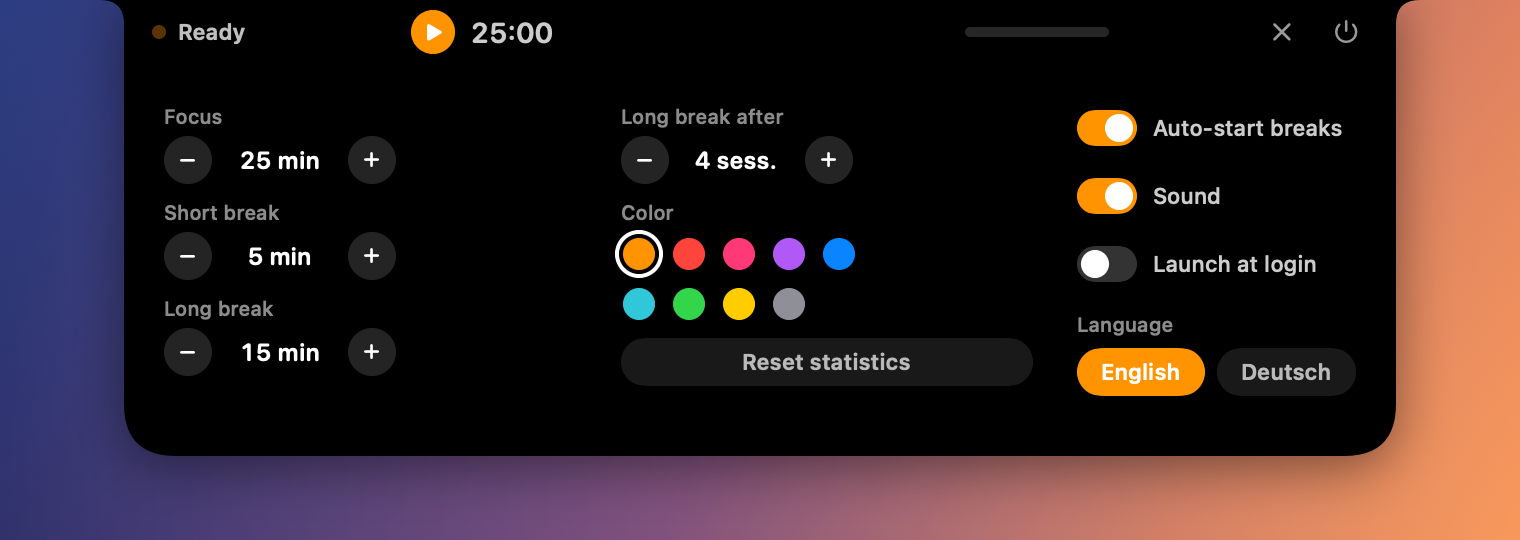
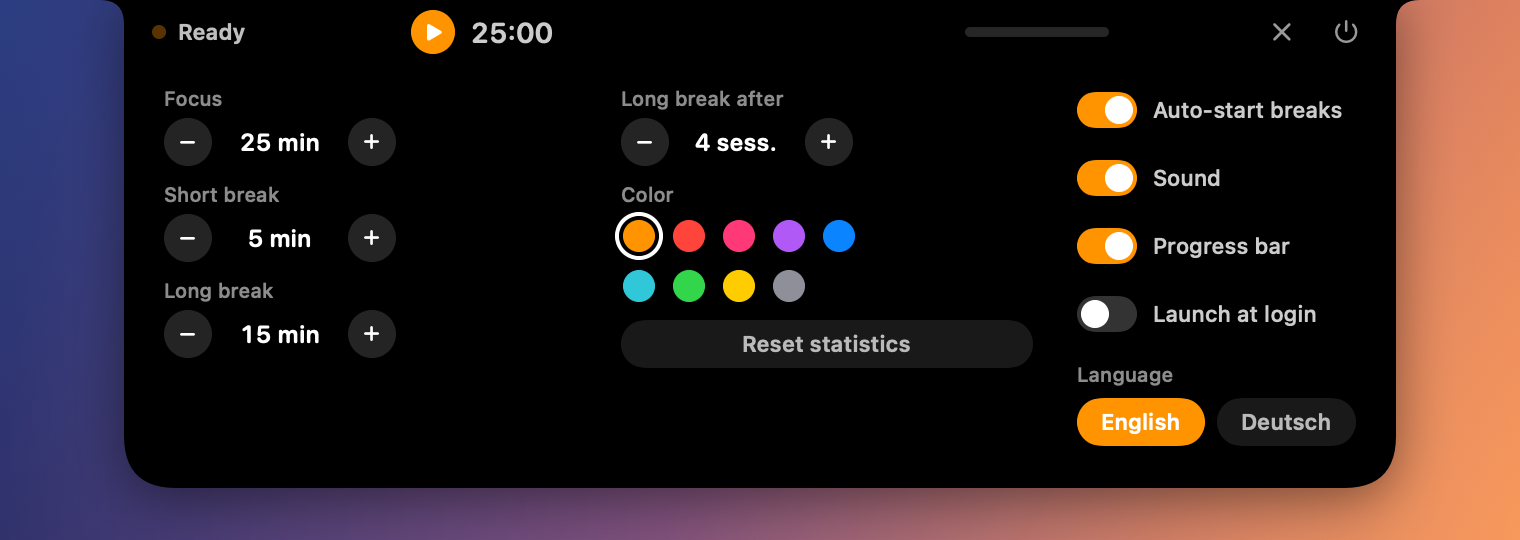
Reset the Pomodoro cycle after an hour idle; progress bar can be turned off
- Starting a session after 60+ minutes without one resets the cycle (next long break comes after the full count again)
- New setting to hide the progress bar to the right of the camera
- Build from a temp copy of the sources and sign outside the project folder (iCloud Desktop sync broke builds)
- Version 1.7.0

diff --git a/Sources/FocusNotch/Model.swift b/Sources/FocusNotch/Model.swift
@@ -11,6 +11,7 @@ struct PomodoroSettings: Codable, Equatable {
     var sound = true
     var accent: AccentColor = .orange
     var language: AppLanguage = .system
+    var showProgressBar = true
 
     init() {}
 
@@ -26,6 +27,7 @@ struct PomodoroSettings: Codable, Equatable {
         sound = (try? c.decodeIfPresent(Bool.self, forKey: .sound)) ?? d.sound
         accent = (try? c.decodeIfPresent(AccentColor.self, forKey: .accent)) ?? d.accent
         language = (try? c.decodeIfPresent(AppLanguage.self, forKey: .language)) ?? d.language
+        showProgressBar = (try? c.decodeIfPresent(Bool.self, forKey: .showProgressBar)) ?? d.showProgressBar
     }
 }
 
@@ -94,6 +96,9 @@ final class PomodoroModel: ObservableObject {
     var onPhaseFinished: ((Phase) -> Void)?
 
     private var cycleCount = 0 // completed Pomodoros since the last long break
+    /// When the timer last went idle – after `cycleResetAfter` without a new session the cycle starts over.
+    private var idleSince: Date?
+    static let cycleResetAfter: TimeInterval = 60 * 60
     private var ticker: Timer?
     private let defaults = UserDefaults.standard
     private var isLoading = false
@@ -137,7 +142,19 @@ final class PomodoroModel: ObservableObject {
 
     /// Starts a focus timer or resumes a paused one.
     func start() {
-        if !isActive { begin(.focus, minutes: settings.focusMinutes) } else if isPaused { resume() }
+        if !isActive {
+            resetCycleIfIdleTooLong()
+            begin(.focus, minutes: settings.focusMinutes)
+        } else if isPaused {
+            resume()
+        }
+    }
+
+    /// No new session for an hour → the Pomodoro cycle starts from the beginning.
+    private func resetCycleIfIdleTooLong(now: Date = Date()) {
+        if let idleSince, now.timeIntervalSince(idleSince) >= Self.cycleResetAfter {
+            cycleCount = 0
+        }
     }
 
     func togglePause() {
@@ -209,6 +226,7 @@ final class PomodoroModel: ObservableObject {
         endDate = nil
         pausedRemaining = nil
         phaseDuration = 0
+        idleSince = Date()
         save()
     }
 
@@ -283,6 +301,7 @@ final class PomodoroModel: ObservableObject {
         defaults.set(try? enc.encode(sessions), forKey: "sessions")
         defaults.set(cancelledCount, forKey: "cancelled")
         defaults.set(cycleCount, forKey: "cycle")
+        defaults.set(idleSince?.timeIntervalSince1970, forKey: "idleSince")
         if isActive {
             let rs = RunState(phase: phase, endDate: endDate, pausedRemaining: pausedRemaining,
                               duration: phaseDuration, cycleCount: cycleCount)
@@ -321,6 +340,7 @@ final class PomodoroModel: ObservableObject {
         if let d = defaults.data(forKey: "sessions"), let s = try? dec.decode([Session].self, from: d) { sessions = s }
         cancelledCount = defaults.integer(forKey: "cancelled")
         cycleCount = defaults.integer(forKey: "cycle")
+        if let t = defaults.object(forKey: "idleSince") as? Double { idleSince = Date(timeIntervalSince1970: t) }
         // Resume a running or paused timer after a restart
         if let d = defaults.data(forKey: "run"), let rs = try? dec.decode(RunState.self, from: d) {
             if let p = rs.pausedRemaining {

diff --git a/Sources/FocusNotch/IslandView.swift b/Sources/FocusNotch/IslandView.swift
@@ -80,6 +80,7 @@ struct IslandView: View {
         .animation(spring, value: ui.showSettings)
         .animation(spring, value: ui.celebrating)
         .animation(spring, value: ui.askNextSession)
+        .animation(spring, value: model.settings.showProgressBar)
         .animation(spring, value: model.phase)
         .animation(spring, value: model.isPaused)
         .preferredColorScheme(.dark)
@@ -124,8 +125,11 @@ struct HeaderRow: View {
             Color.clear.frame(width: ui.notchSize.width)
 
             HStack(spacing: 14) {
-                ProgressBar(progress: model.progress, color: model.accent)
-                    .frame(width: 72, height: 5)
+                if model.settings.showProgressBar {
+                    ProgressBar(progress: model.progress, color: model.accent)
+                        .frame(width: 72, height: 5)
+                        .transition(.opacity)
+                }
                 Spacer(minLength: 0)
                 if ui.isExpanded {
                     IconButton(symbol: ui.showSettings ? "xmark" : "gearshape.fill") { ui.showSettings.toggle() }
@@ -511,6 +515,7 @@ struct SettingsView: View {
             VStack(alignment: .leading, spacing: 10) {
                 SwitchRow(label: model.lang.pick("Auto-start breaks", "Pause auto-starten"), isOn: $model.settings.autoStartBreak)
                 SwitchRow(label: model.lang.pick("Sound", "Ton"), isOn: $model.settings.sound)
+                SwitchRow(label: model.lang.pick("Progress bar", "Fortschrittsleiste"), isOn: $model.settings.showProgressBar)
                 SwitchRow(label: model.lang.pick("Launch at login", "Beim Login starten"), isOn: Binding(
                     get: { launchAtLogin },
                     set: { on in

diff --git a/Sources/FocusNotch/IslandController.swift b/Sources/FocusNotch/IslandController.swift
@@ -45,7 +45,7 @@ final class IslandUIState: ObservableObject {
         if isExpanded {
             // Main view as tall as the round timer; settings need more room
             return CGSize(width: max(660, notchSize.width + 2 * Self.sideWidth + 80),
-                          height: notchSize.height + (showSettings ? 196 : 136))
+                          height: notchSize.height + (showSettings ? 212 : 136))
         }
         if askNextSession {
             return CGSize(width: notchSize.width + 2 * Self.sideWidth, height: notchSize.height + 82)

diff --git a/README.md b/README.md
@@ -48,7 +48,7 @@ curl -fsSL https://raw.githubusercontent.com/constantin-loesch/FocusNotch/main/i
 
 ### Always there – right next to the camera
 
-To the left of the notch you always see the **start button** and the **time** – the configured focus length when idle, the countdown while running. To the right, a **progress bar** shows how far along the current phase is.
+To the left of the notch you always see the **start button** and the **time** – the configured focus length when idle, the countdown while running. To the right, a **progress bar** shows how far along the current phase is (can be turned off in the settings).
 
 <p align="center">
   <img src="docs/images/island-idle.png" width="720" alt="Island when idle"><br>
@@ -91,7 +91,7 @@ When a break ends, the island asks whether to start the next session. Two big bu
 
 ### Settings
 
-Click the gear: focus, short break and long break length, how many sessions until the long break, **accent color**, auto-start breaks, sound, launch at login, **language** (English / Deutsch) and reset statistics.
+Click the gear: focus, short break and long break length, how many sessions until the long break, **accent color**, auto-start breaks, sound, **progress bar** next to the camera (on/off), launch at login, **language** (English / Deutsch) and reset statistics.
 
 <p align="center">
   <img src="docs/images/island-settings.png" width="720" alt="Settings">
@@ -119,7 +119,7 @@ Two sizes for your desktop. The buttons are **real widget buttons** (App Intents
 ### Also
 
 - A sound at the end of every phase; after a focus phase the break starts automatically (can be turned off), after a break you choose whether to continue
-- Every 4th break is a long break (configurable)
+- Every 4th break is a long break (configurable); after an hour without a new session the cycle starts over
 - A running or paused timer survives an app restart
 - **Bilingual:** English and German, switchable in the settings (starts in your Mac's system language); the widget follows along
 - No Dock icon, no window – just the island
@@ -252,7 +252,7 @@ Why like this? When the app asks for it, a visible widget may be redrawn at most
 
 | Location | Content |
 |---|---|
-| `UserDefaults` (`de.constantin.focusnotch`) | `settings` (incl. accent color and language), `sessions` (history of all focus and break phases), `run` (running/paused timer), `cycle` (sessions since the last long break) |
+| `UserDefaults` (`de.constantin.focusnotch`) | `settings` (incl. accent color and language), `sessions` (history of all focus and break phases), `run` (running/paused timer), `cycle` (sessions since the last long break), `idleSince` (when the timer last went idle – resets the cycle after an hour) |
 | `~/Library/Application Support/FocusNotch/widget.json` | Snapshot for the widget: phase, end time, today's times, sessions per day, accent color, language |
 
 The widget runs sandboxed and may read exactly this one folder through an exception entitlement (see `FocusNotchWidget.entitlements`). It draws running countdowns on its own (`Text(timerInterval:)`) without being reloaded.
